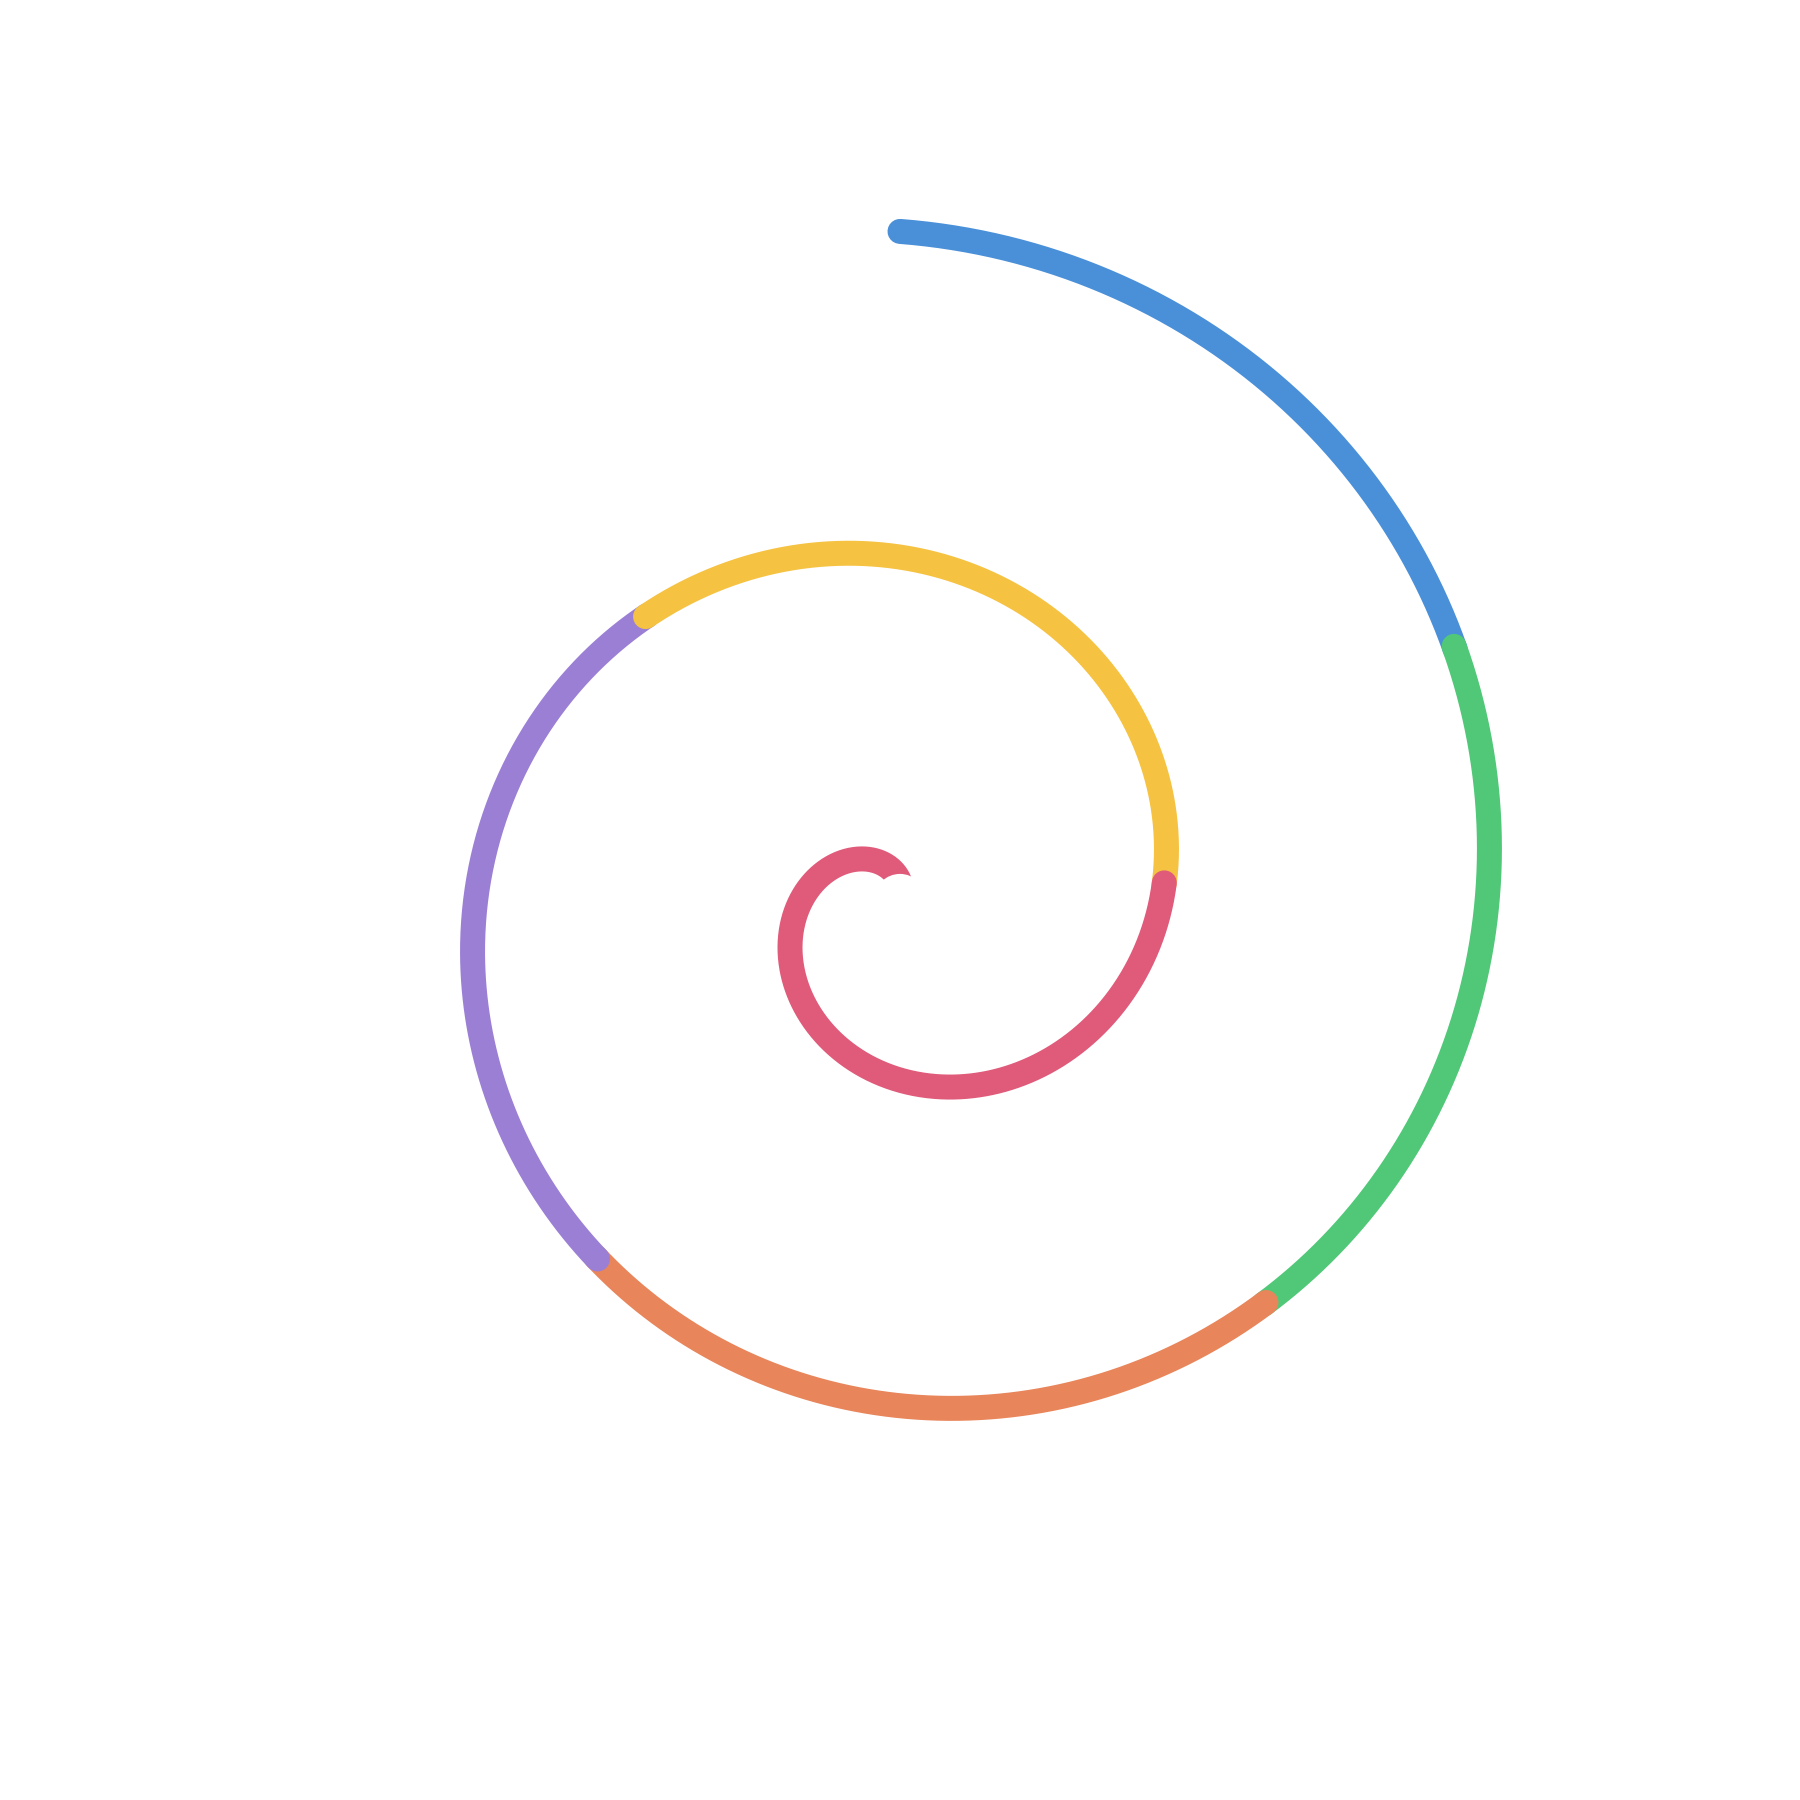
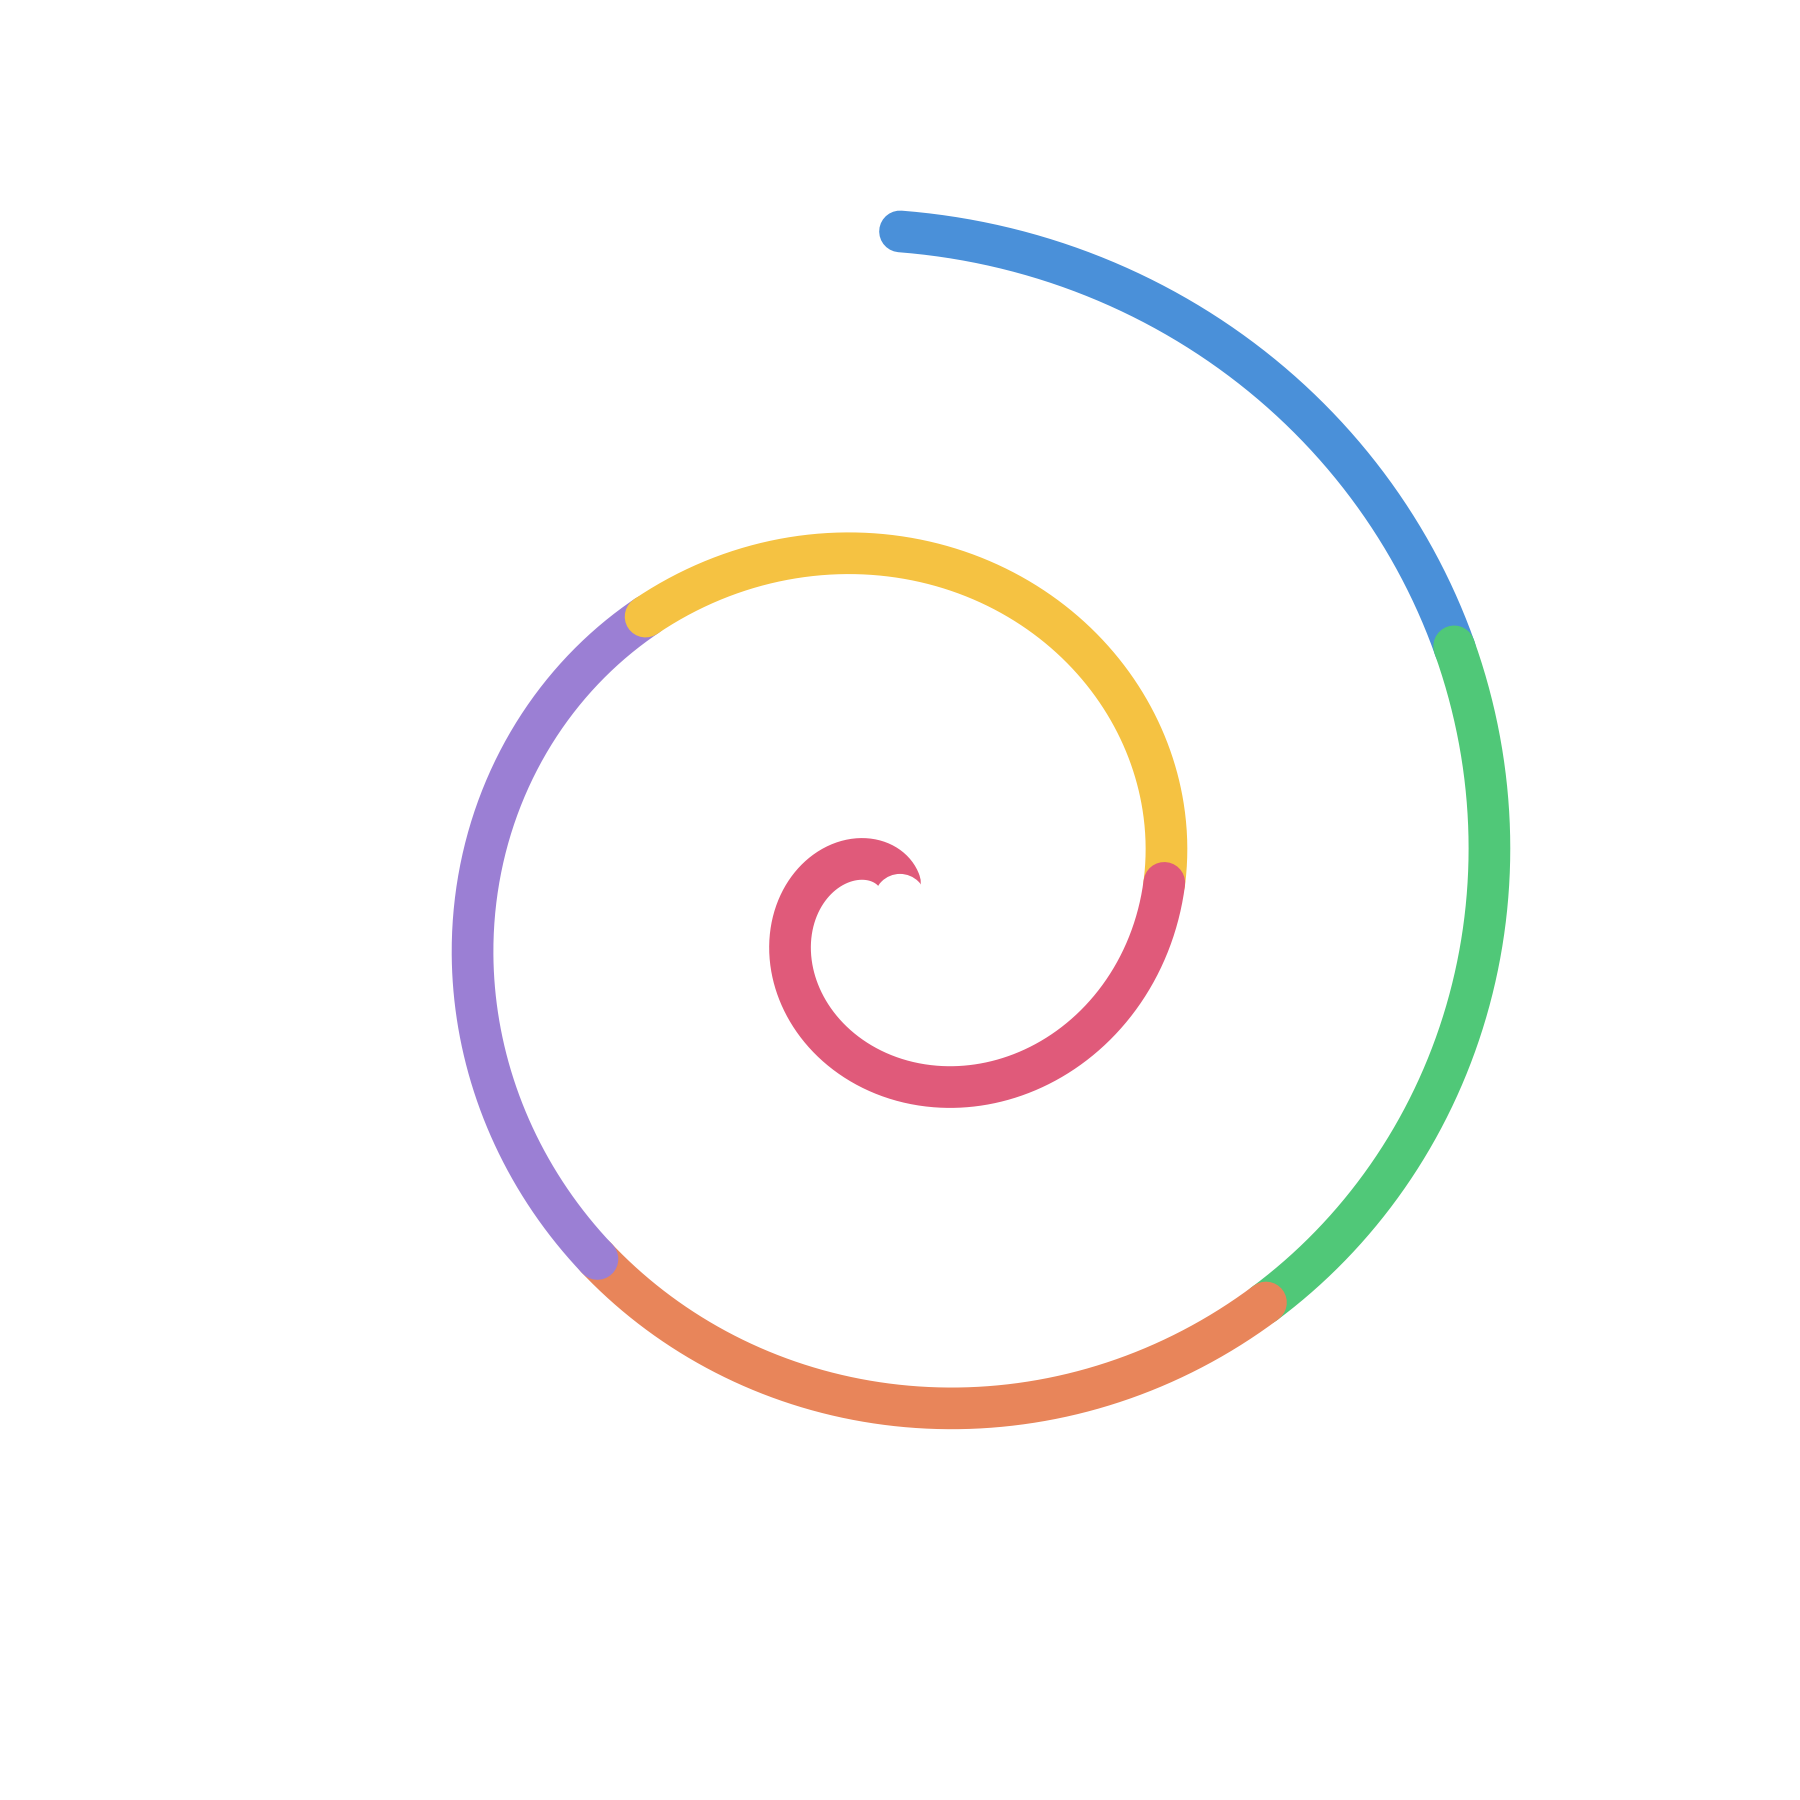
feat(branding): increase hero spiral stroke width for better visibility
Bump hero mark linewidth from 6 to 10 — the 1800px source downscaled
to 160px CSS was too thin. Thicker strokes hold visual weight at the
hero display size.

Changed region(s): [[0.2489, 0.0933, 0.84, 0.8089]]

diff --git a/branding/generate_spiral_final.py b/branding/generate_spiral_final.py
@@ -223,7 +223,7 @@ def make_hero_mark():
 
     size_in = 6
     dpi = 300
-    lw = 6.0
+    lw = 10.0
 
     fig, ax = plt.subplots(figsize=(size_in, size_in), dpi=dpi)
     fig.patch.set_alpha(0)
